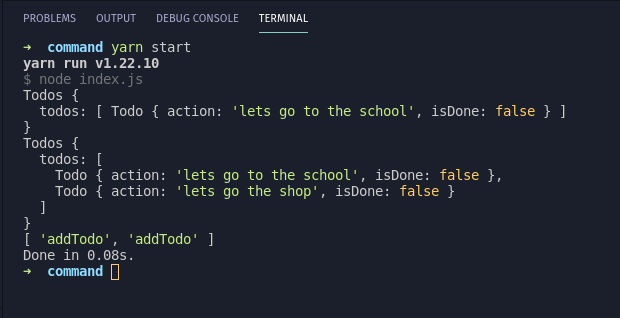
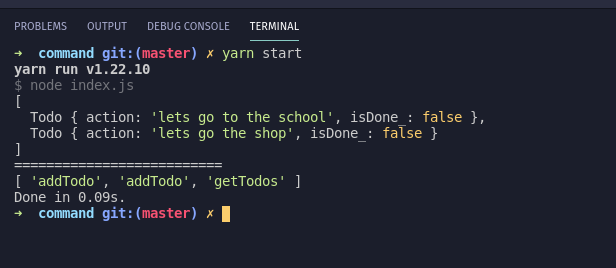
correct example

diff --git a/index.js b/index.js
@@ -49,6 +49,8 @@ class Command{
 }
 
 const command = new Command(new Todos())
-console.log(command.execute('addTodo','lets go to the school'))
-console.log(command.execute('addTodo','lets go the shop'))
+command.execute('addTodo','lets go to the school')
+command.execute('addTodo','lets go the shop')
+console.log(command.execute('getTodos'))
+console.log('==========================')
 console.log(command.commandExecuted)
